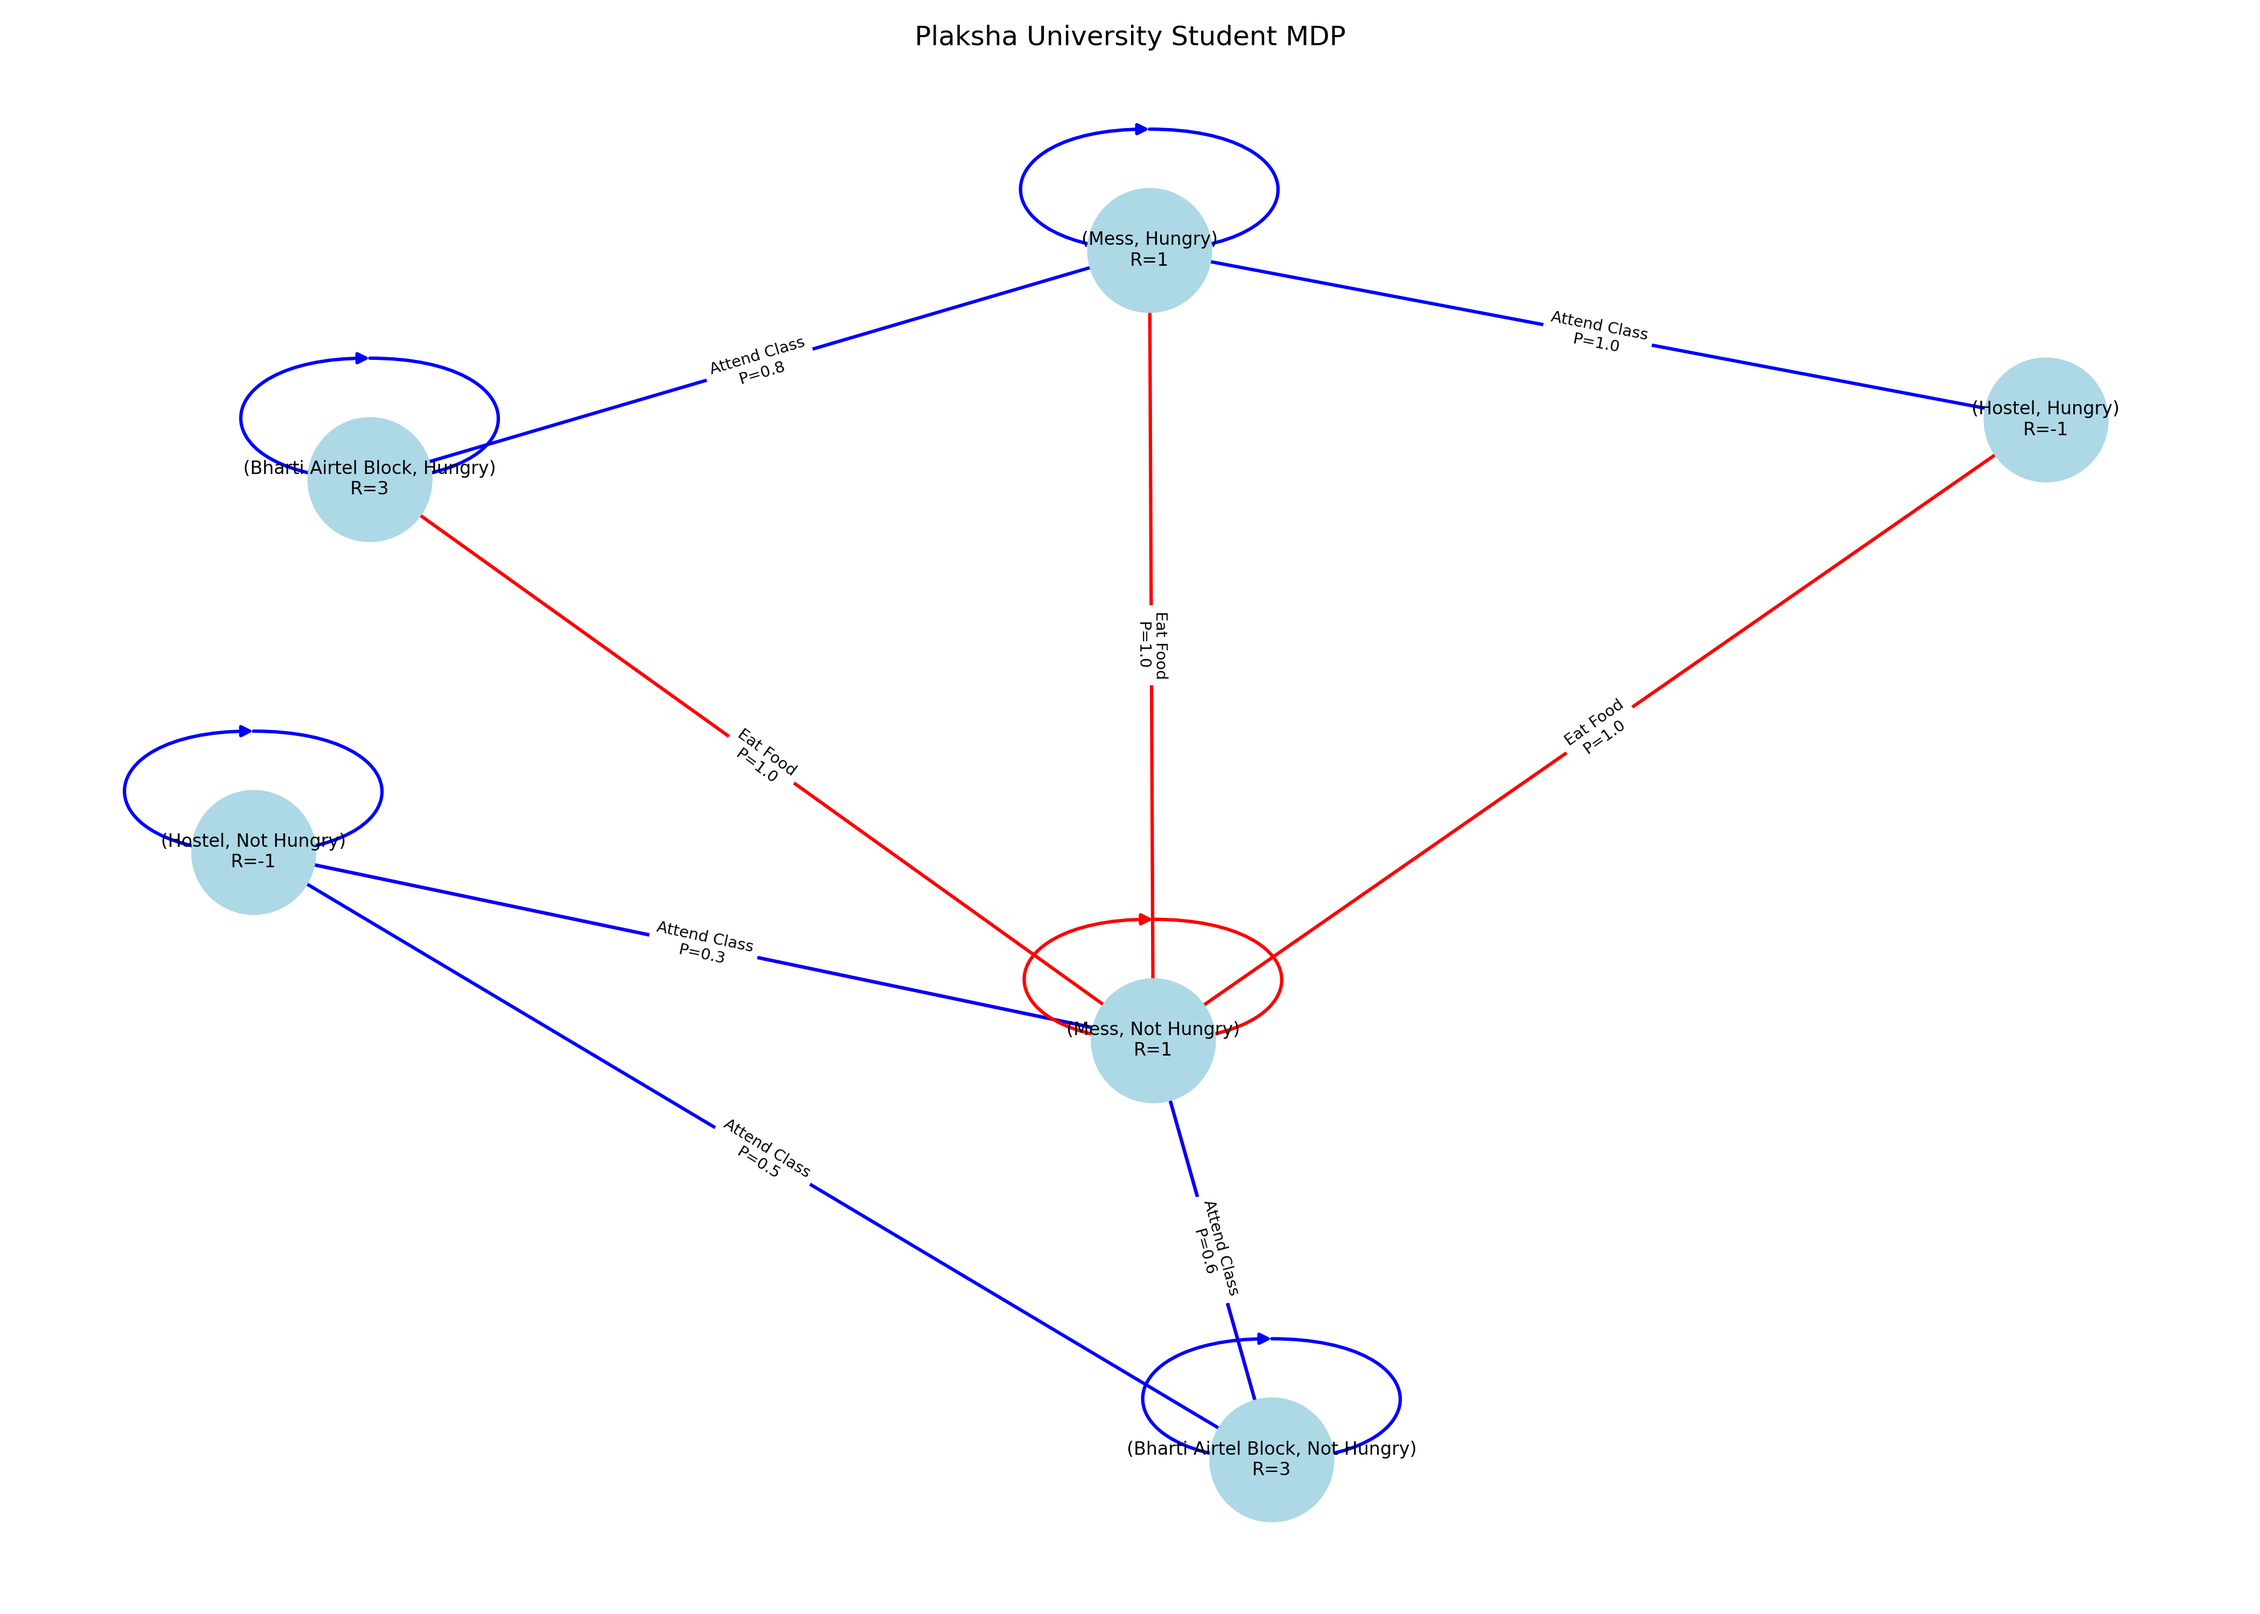
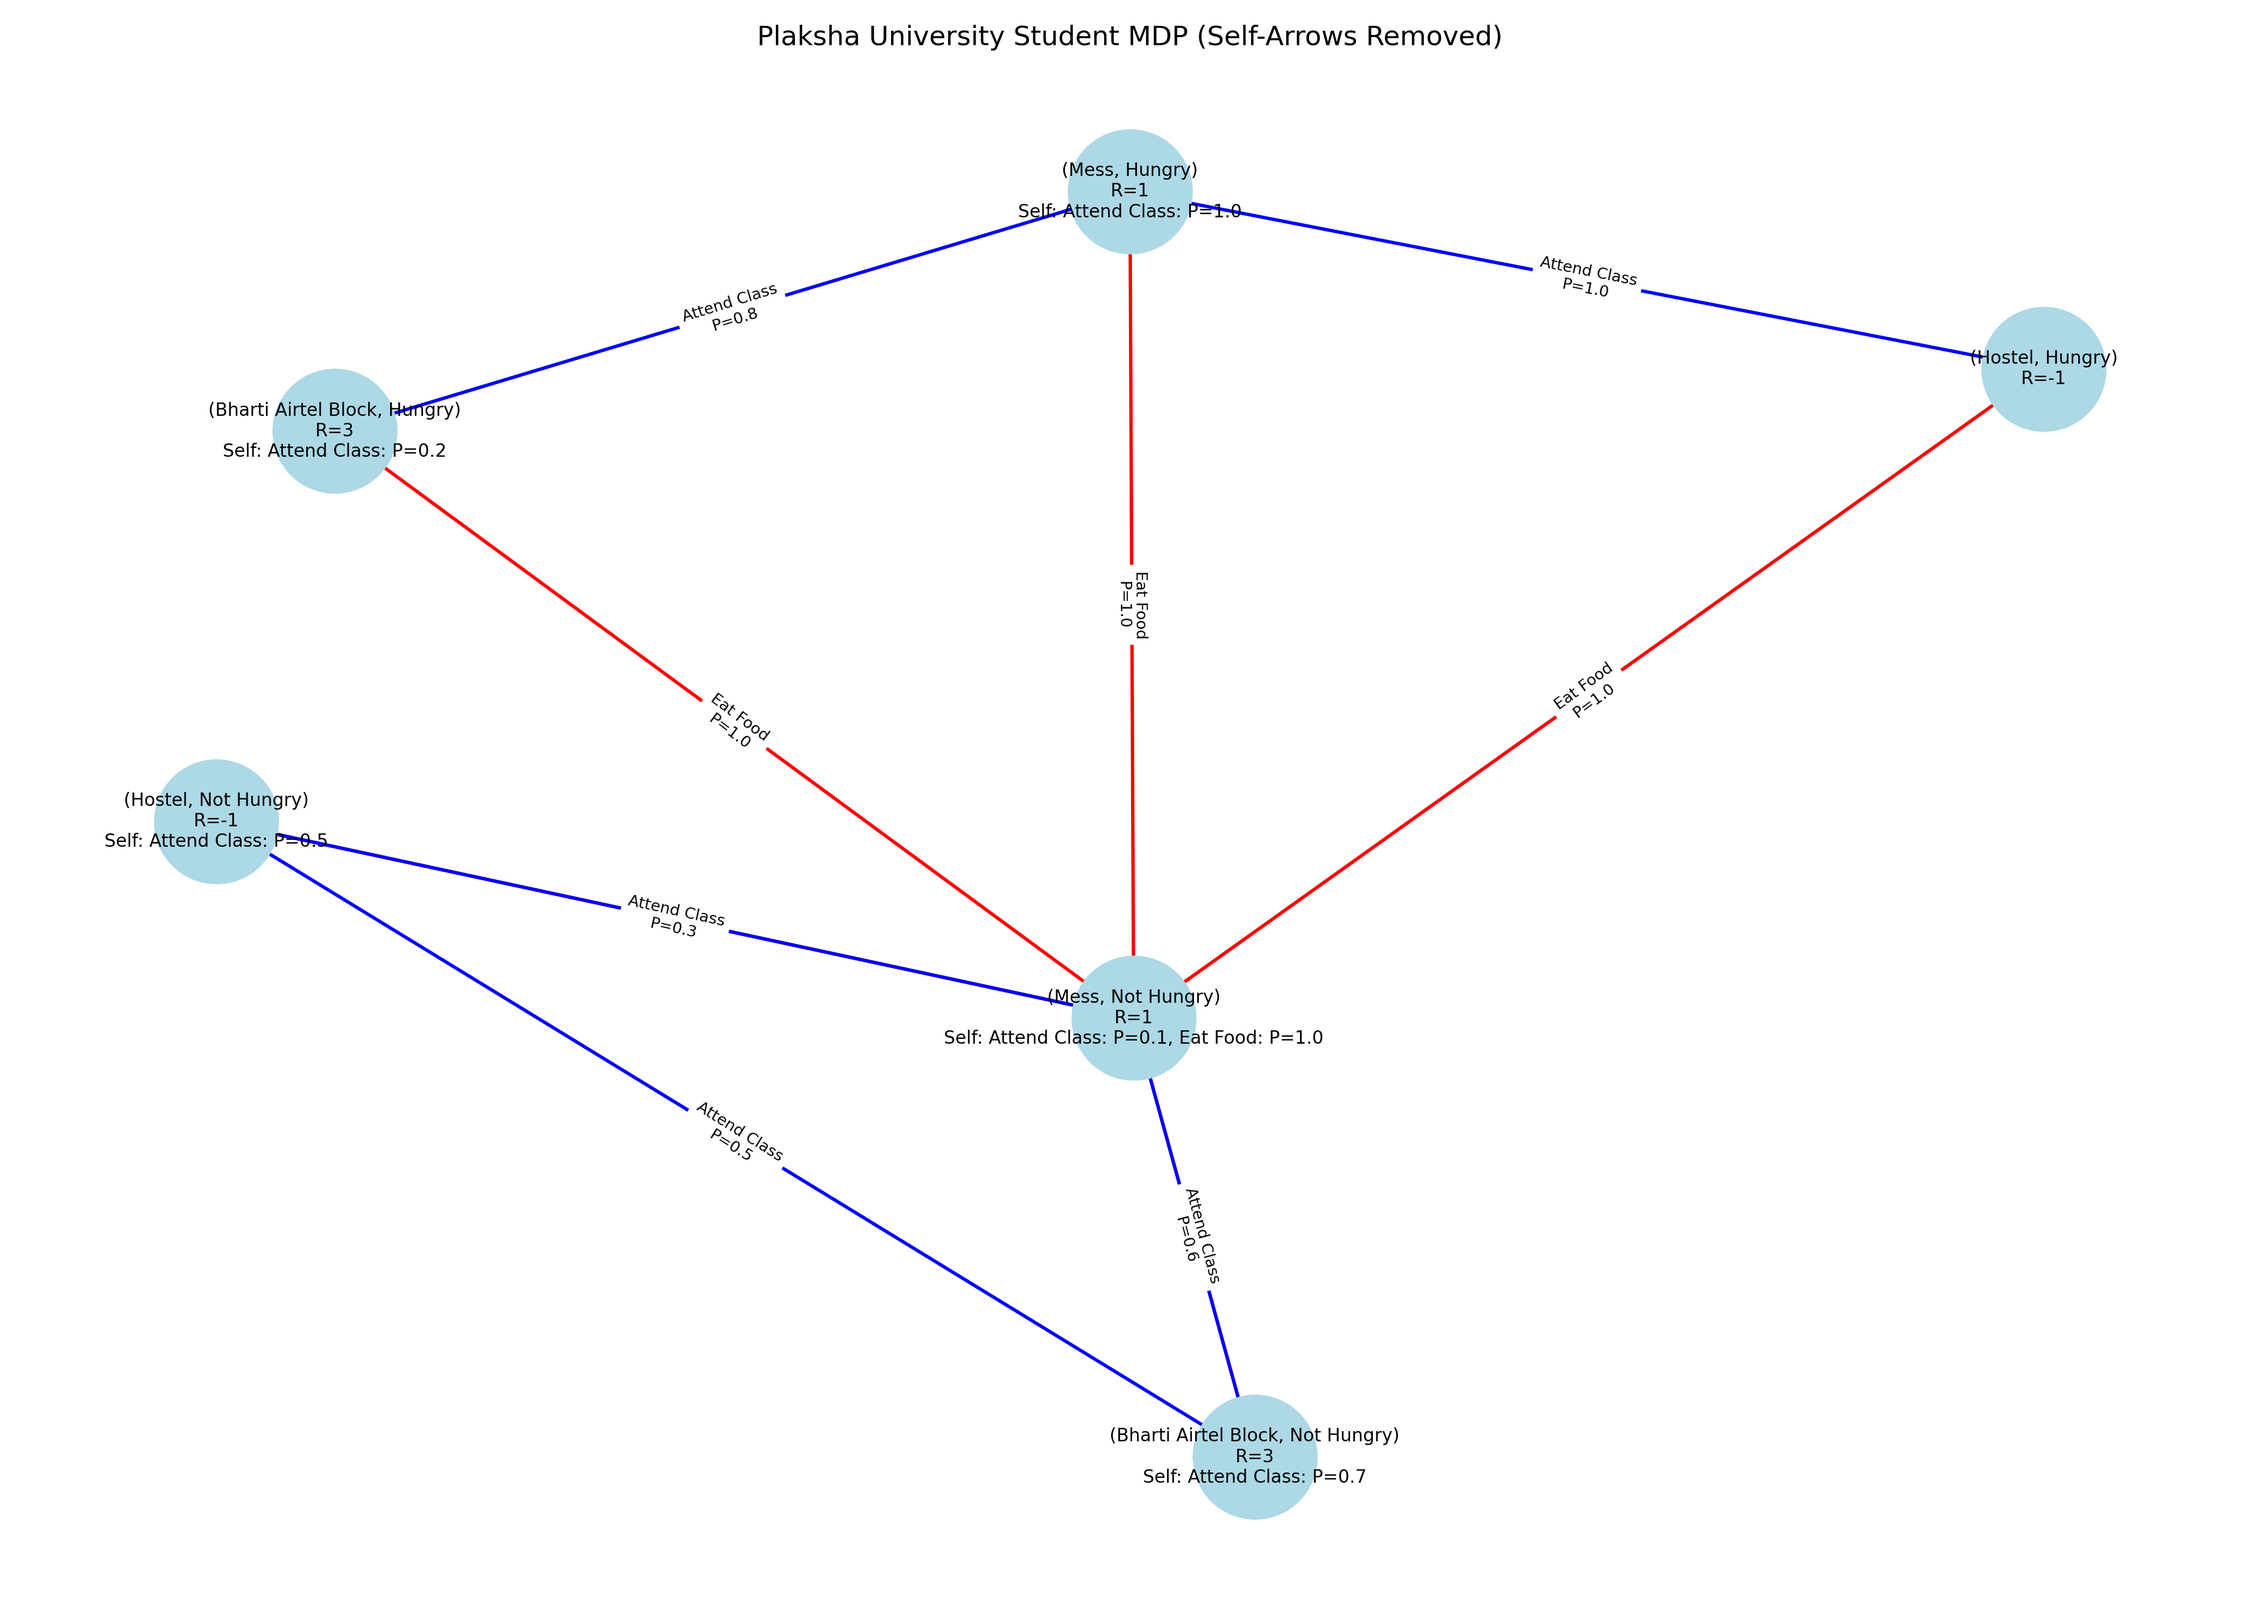
fixed mdp diagram

diff --git a/assignment 2/a2_q1.py b/assignment 2/a2_q1.py
@@ -82,19 +82,23 @@ class PlakshaMDP:
                         print(f"    To State: {self.state_names[s_prime]} with probability {self.P[a, s, s_prime]:.2f}")
     
     def draw_mdp_diagram(self):
-        """Draw the MDP diagram with probabilities and rewards"""
+        """Draw the MDP diagram with probabilities and rewards - without self-arrows"""
         G = nx.DiGraph()
         
         # Add nodes
         for i, state_name in enumerate(self.state_names):
             G.add_node(state_name, reward=self.rewards[i])
         
-        # Add edges for each action
+        # Add edges for each action, excluding self-loops
         for action in range(self.n_actions):
             action_name = self.action_names[action]
             for source in range(self.n_states):
                 source_name = self.state_names[source]
                 for target in range(self.n_states):
+                    # Skip self-loops (source == target)
+                    if source == target:
+                        continue
+                    
                     target_name = self.state_names[target]
                     probability = self.P[action, source, target]
                     if probability > 0:
@@ -120,8 +124,23 @@ class PlakshaMDP:
         
         nx.draw_networkx_edges(G, pos, edgelist=edges, edge_color=edge_colors, width=1.5)
         
-        # Node labels
-        node_labels = {node: f"{node}\nR={G.nodes[node]['reward']}" for node in G.nodes()}
+        # Node labels with self-loop information
+        node_labels = {}
+        for i, node in enumerate(G.nodes()):
+            # Check for self loops in original data and add to label if present
+            self_loops = []
+            for a in range(self.n_actions):
+                p = self.P[a, i, i]
+                if p > 0:
+                    self_loops.append(f"{self.action_names[a]}: P={p:.1f}")
+            
+            # Create label with reward and self-loop info
+            label = f"{node}\nR={self.rewards[i]}"
+            if self_loops:
+                label += "\nSelf: " + ", ".join(self_loops)
+            
+            node_labels[node] = label
+            
         nx.draw_networkx_labels(G, pos, labels=node_labels, font_size=8)
         
         # Edge labels
@@ -130,7 +149,7 @@ class PlakshaMDP:
             edge_labels[(u, v)] = f"{data['action']}\nP={data['probability']:.1f}"
         nx.draw_networkx_edge_labels(G, pos, edge_labels=edge_labels, font_size=7)
         
-        plt.title("Plaksha University Student MDP")
+        plt.title("Plaksha University Student MDP (Self-Arrows Removed)")
         plt.axis('off')
         plt.tight_layout()
         plt.savefig('mdp_diagram.png', dpi=300)
